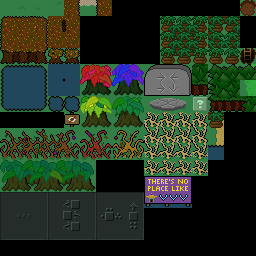
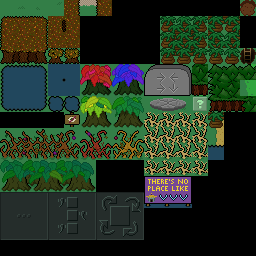
ease-of-use improvements to static educator

Changed region(s): [[0.375, 0.75, 0.5625, 0.9375], [0.2188, 0.75, 0.3438, 0.9375]]

diff --git a/src/app/sprite/types/fmn_sprite_static_educator.c b/src/app/sprite/types/fmn_sprite_static_educator.c
@@ -50,10 +50,10 @@ static void sted_retile(uint8_t col) {
 #define STED_SPACE_FUDGE 0.125f
  
 struct sted_find_connection_context {
-  struct fmn_sprite *pushblock;
+  struct fmn_sprite *treadle;
   struct fmn_sprite *alphablock;
   float midx,midy; // (sted.[xy]) but floated at the cell's center
-  float targetx,targety; // expected position of alphablock, depends on pushblock
+  float targetx,targety; // expected position of alphablock, depends on treadle
 };
 
 static int _sted_find_connection_final(struct fmn_sprite *sprite,void *userdata) {
@@ -73,9 +73,10 @@ static int _sted_find_connection_final(struct fmn_sprite *sprite,void *userdata)
  
 static int _sted_find_connection_1(struct fmn_sprite *sprite,void *userdata) {
   struct sted_find_connection_context *ctx=userdata;
-  if (sprite->controller!=FMN_SPRCTL_pushblock) return 0;
+  if (sprite->controller!=FMN_SPRCTL_treadle) return 0;
+  if (!sprite->bv[0]) return 0; // not pressed
   
-  // Determine which cardinal edge the block abuts. If none, return zero.
+  // Determine which cardinal edge the treadle abuts. If none, return zero.
   ctx->targetx=sprite->x;
   ctx->targety=sprite->y;
   float dx=sprite->x-ctx->midx;
@@ -94,7 +95,7 @@ static int _sted_find_connection_1(struct fmn_sprite *sprite,void *userdata) {
     } else return 0;
   } else return 0;
   
-  ctx->pushblock=sprite;
+  ctx->treadle=sprite;
   return fmn_sprites_for_each(_sted_find_connection_final,ctx);
 }
  
@@ -141,7 +142,8 @@ static void _sted_init(struct fmn_sprite *sprite) {
   if (sted.y<1) sted.y=1;
   else if (sted.y>=FMN_ROWC-1) sted.y=FMN_ROWC-2;
   
-  uint16_t listener=fmn_game_event_listen(FMN_GAME_EVENT_BLOCKS_MOVED,_sted_blocks_moved,0);
+  fmn_game_event_listen(FMN_GAME_EVENT_BLOCKS_MOVED,_sted_blocks_moved,0);
+  fmn_game_event_listen(FMN_GAME_EVENT_TREADLE_CHANGE,_sted_blocks_moved,0);
   fmn_sprite_kill(sprite);
 }
 

diff --git a/src/app/sprite/types/fmn_sprite_treadle.c b/src/app/sprite/types/fmn_sprite_treadle.c
@@ -64,6 +64,7 @@ static void _treadle_press(struct fmn_sprite *sprite) {
     if (gsbit) fmn_gs_set_bit(gsbit,1);
     fmn_sound_effect(FMN_SFX_TREADLE_PRESS);
     countdown=0.0f;
+    fmn_game_event_broadcast(FMN_GAME_EVENT_TREADLE_CHANGE,sprite);
   }
 }
  
@@ -78,6 +79,7 @@ static void _treadle_release(struct fmn_sprite *sprite) {
     state=0;
     if (gsbit) fmn_gs_set_bit(gsbit,0);
     fmn_sound_effect(FMN_SFX_TREADLE_RELEASE);
+    fmn_game_event_broadcast(FMN_GAME_EVENT_TREADLE_CHANGE,sprite);
   }
 }
 
@@ -87,6 +89,7 @@ static void _treadle_commit_delayed_release(struct fmn_sprite *sprite) {
     state=0;
     if (gsbit) fmn_gs_set_bit(gsbit,0);
     fmn_sound_effect(FMN_SFX_TREADLE_RELEASE);
+    fmn_game_event_broadcast(FMN_GAME_EVENT_TREADLE_CHANGE,sprite);
   }
 }
  
@@ -96,10 +99,12 @@ static void _stompbox_press(struct fmn_sprite *sprite) {
     state=0;
     sprite->tileid=tileid0+1;
     if (gsbit) fmn_gs_set_bit(gsbit,0);
+    fmn_game_event_broadcast(FMN_GAME_EVENT_TREADLE_CHANGE,sprite);
   } else {
     state=1;
     sprite->tileid=tileid0+3;
     if (gsbit) fmn_gs_set_bit(gsbit,1);
+    fmn_game_event_broadcast(FMN_GAME_EVENT_TREADLE_CHANGE,sprite);
   }
 }
  

diff --git a/src/app/fmn_game.h b/src/app/fmn_game.h
@@ -91,6 +91,7 @@ void fmn_game_event_unlisten_all();
 #define FMN_GAME_EVENT_TREADMILL 5 /* payload=int *delta */
 #define FMN_GAME_EVENT_BLOCKS_MOVED 6
 #define FMN_GAME_EVENT_SONG_OK 7 /* payload=uint8_t *spellid; sent as soon as the song is played; it's not cast yet */
+#define FMN_GAME_EVENT_TREADLE_CHANGE 8
 
 /* Extra mechanism for arbitrary update logic.
  * I'm adding this for conveyor belts' sake, but one imagines there will be lots of uses.

diff --git a/README.md b/README.md
@@ -13,9 +13,9 @@ Tentatively aiming for full release 29 September 2023, the first full moon of au
 - [x] Violin is still too unforgiving. Rewrite songs with only 2 beats/measure. (ie every metronome click)
 - [x] Can push alphablock via intermediate pushblock.
 - [x] Positive and negative beeps from alphablocks as you encode.
-- [ ] Static educator: Use treadles instead of connect-the-blocks.
-- [ ] Static educator: Make feather image more obvious.
-- [ ] Static educator: Don't use numbers on the alphablock slide. Use a cloverleaf of arrows.
+- [x] Static educator: Use treadles instead of connect-the-blocks.
+- [x] Static educator: Make feather image more obvious.
+- [x] Static educator: Don't use numbers on the alphablock slide. Use a cloverleaf of arrows.
 - [ ] Soulballs track badly when respawning.
 - [ ] Konami code easter egg.
 - [ ] Orphans should keep their winter clothes after your first victory.
